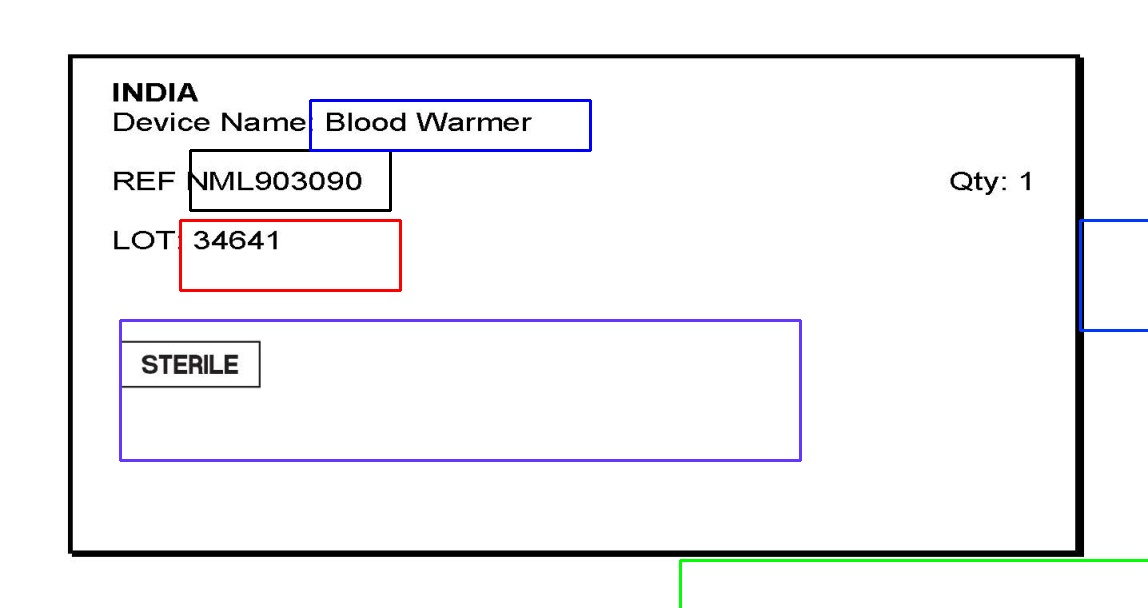
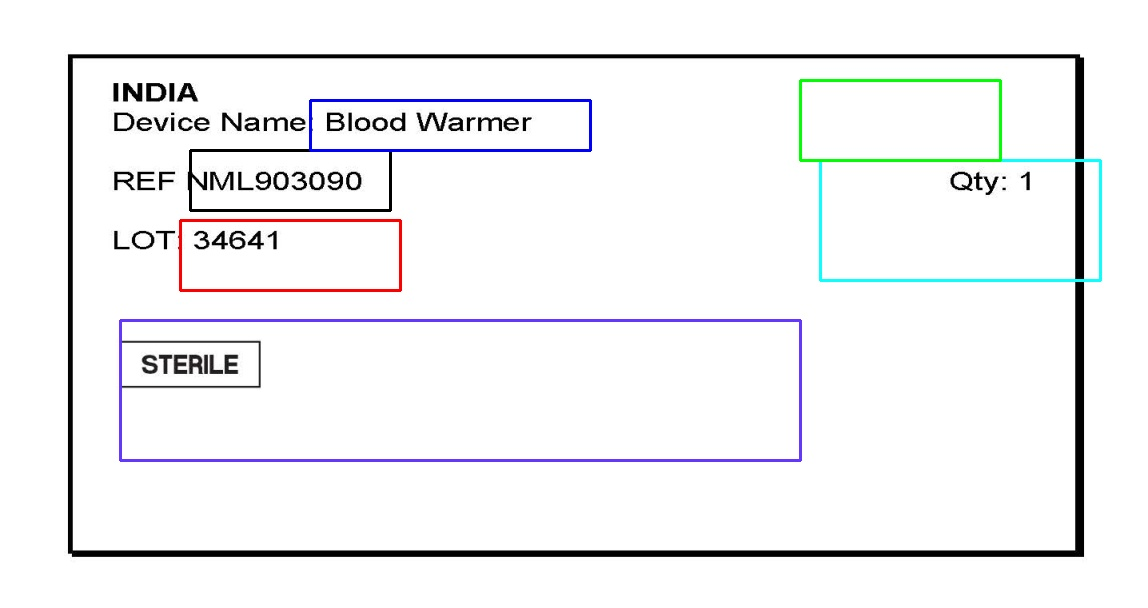
code added

Changed region(s): [[0.6707, 0.125, 1.0, 0.5312], [0.5793, 0.9062, 1.0, 1.0], [0.9451, 0.5312, 1.0, 0.5625]]

diff --git a/backup2.py b/backup2.py
@@ -32,7 +32,7 @@ for i in range(len(os.listdir(datadir))):
         elif img_type == 'device':
             img=cv2.rectangle(img_array,(x,y),(x+w,y+h),(255,0,0),2)
         elif img_type == 'qty':
-            img=cv2.rectangle(img_array,(x,y),(x+w,y+h),(255,55,0),2)
+            img=cv2.rectangle(img_array,(x,y),(x+w,y+h),(255,255,10),2)
         elif img_type == 'symbol1':
             img=cv2.rectangle(img_array,(x,y),(x+w,y+h),(255,55,100),2)
         elif img_type == 'symbol2':
@@ -48,14 +48,15 @@ for i in range(len(os.listdir(datadir))):
     cropped_lot_img = crop(180,220,220,70, img_type='lot')
     cropped_device_img = crop(310,100,280,50, img_type='device')
     cropped_symbol1_img = crop(120,320,680,140, img_type='symbol1')
-    cropped_qty_img = crop(1080,220,980,110, img_type='qty')
-    cropped_symbol2_img = crop(680,560,920,180, img_type='symbol2')
+    cropped_qty_img = crop(820,160,280,120, img_type='qty')
+    cropped_symbol2_img = crop(800,80,200,80, img_type='symbol2')
 
     cv2.imwrite("cropped_ref_img.jpg", cropped_ref_img[0])
-    cv2.imwrite("Image_output\device\cropped_device_img.jpg",cropped_device_img)
-    cv2.imwrite("Image_output\lot\cropped_lot_img.jpg",cropped_lot_img)
-    cv2.imwrite("Image_output\qty\cropped_qty_img.jpg", cropped_qty_img)
-    cv2.imwrite("Image_output\symbols\cropped_symbol_img.jpg", cropped_symbol1_img)
+    cv2.imwrite("Image_output\device\cropped_device_img.jpg",cropped_device_img[0])
+    cv2.imwrite("Image_output\lot\cropped_lot_img.jpg",cropped_lot_img[0])
+    cv2.imwrite("Image_output\qty\cropped_qty_img.jpg", cropped_qty_img[0])
+    cv2.imwrite("Image_output\symbols\cropped_symbol_img.jpg", cropped_symbol1_img[0])
+    cv2.imwrite("Image_output\symbols\cropped_symbol_img.jpg", cropped_symbol2_img[0])
     # cv2.imwrite("croped_img/Cropped_Image{}.jpg" .format(i), cropped_image)
     # cv2.imshow('output_img.jpg', img_arr)
     # plt.show()
